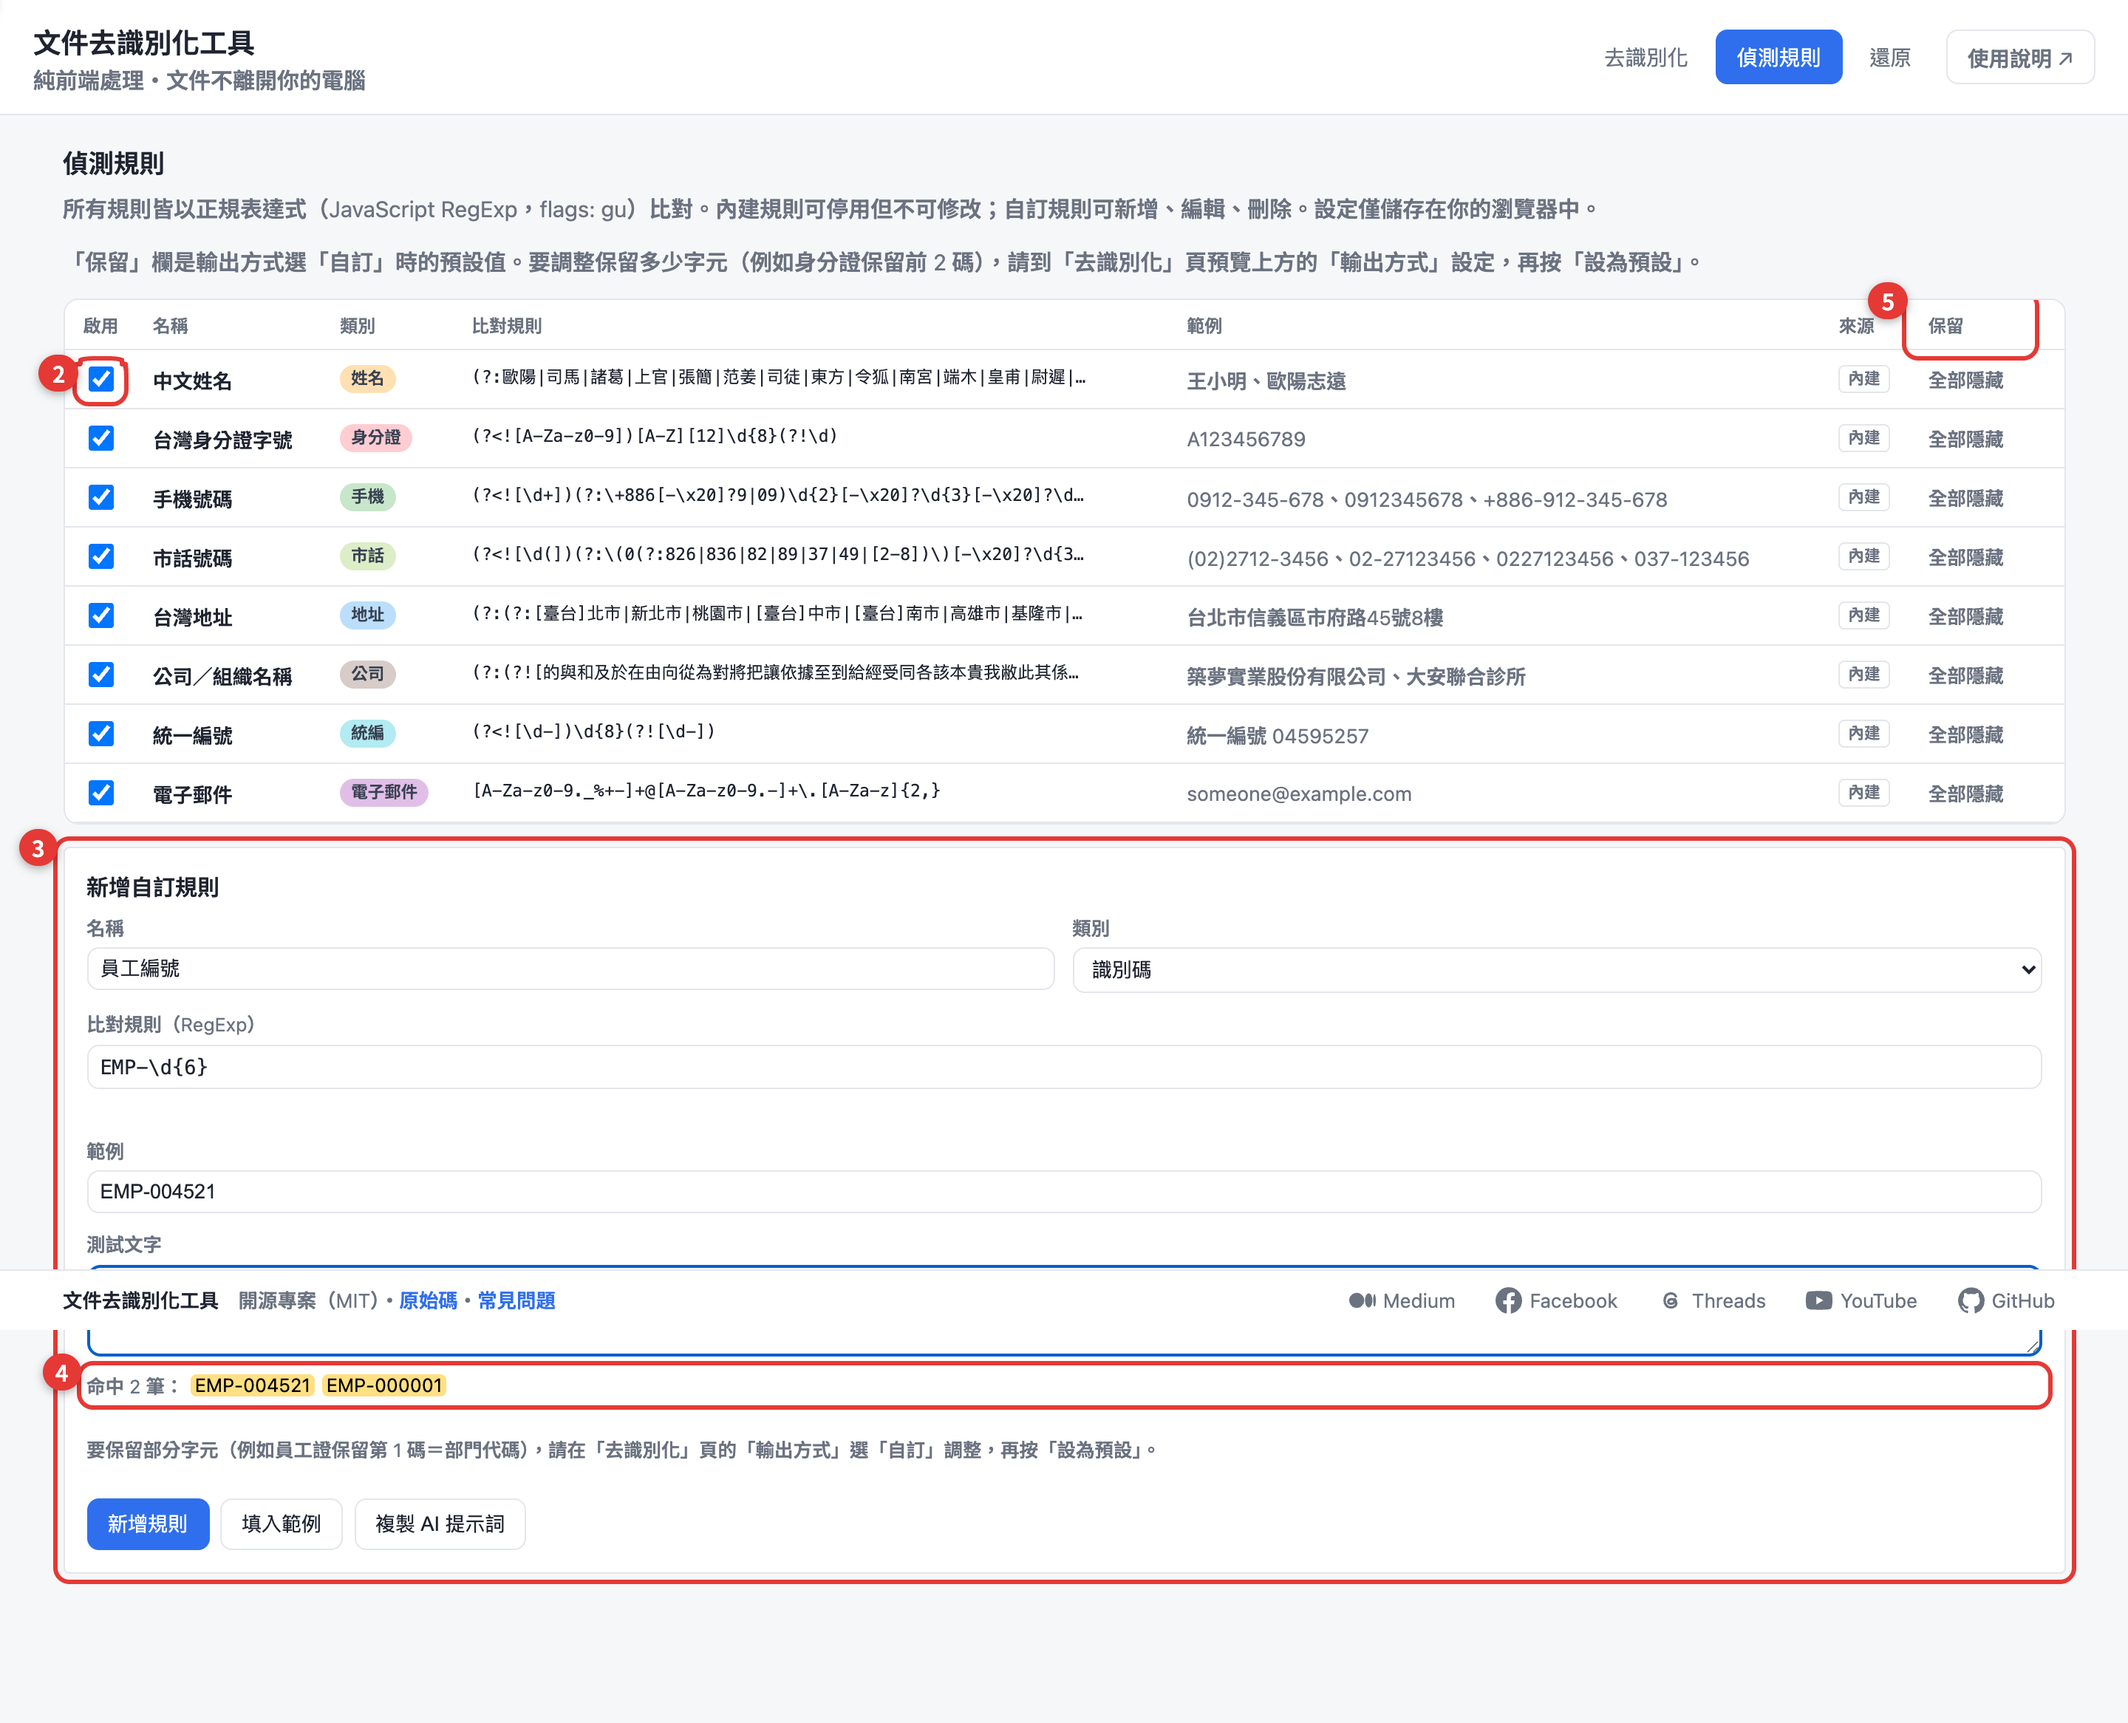
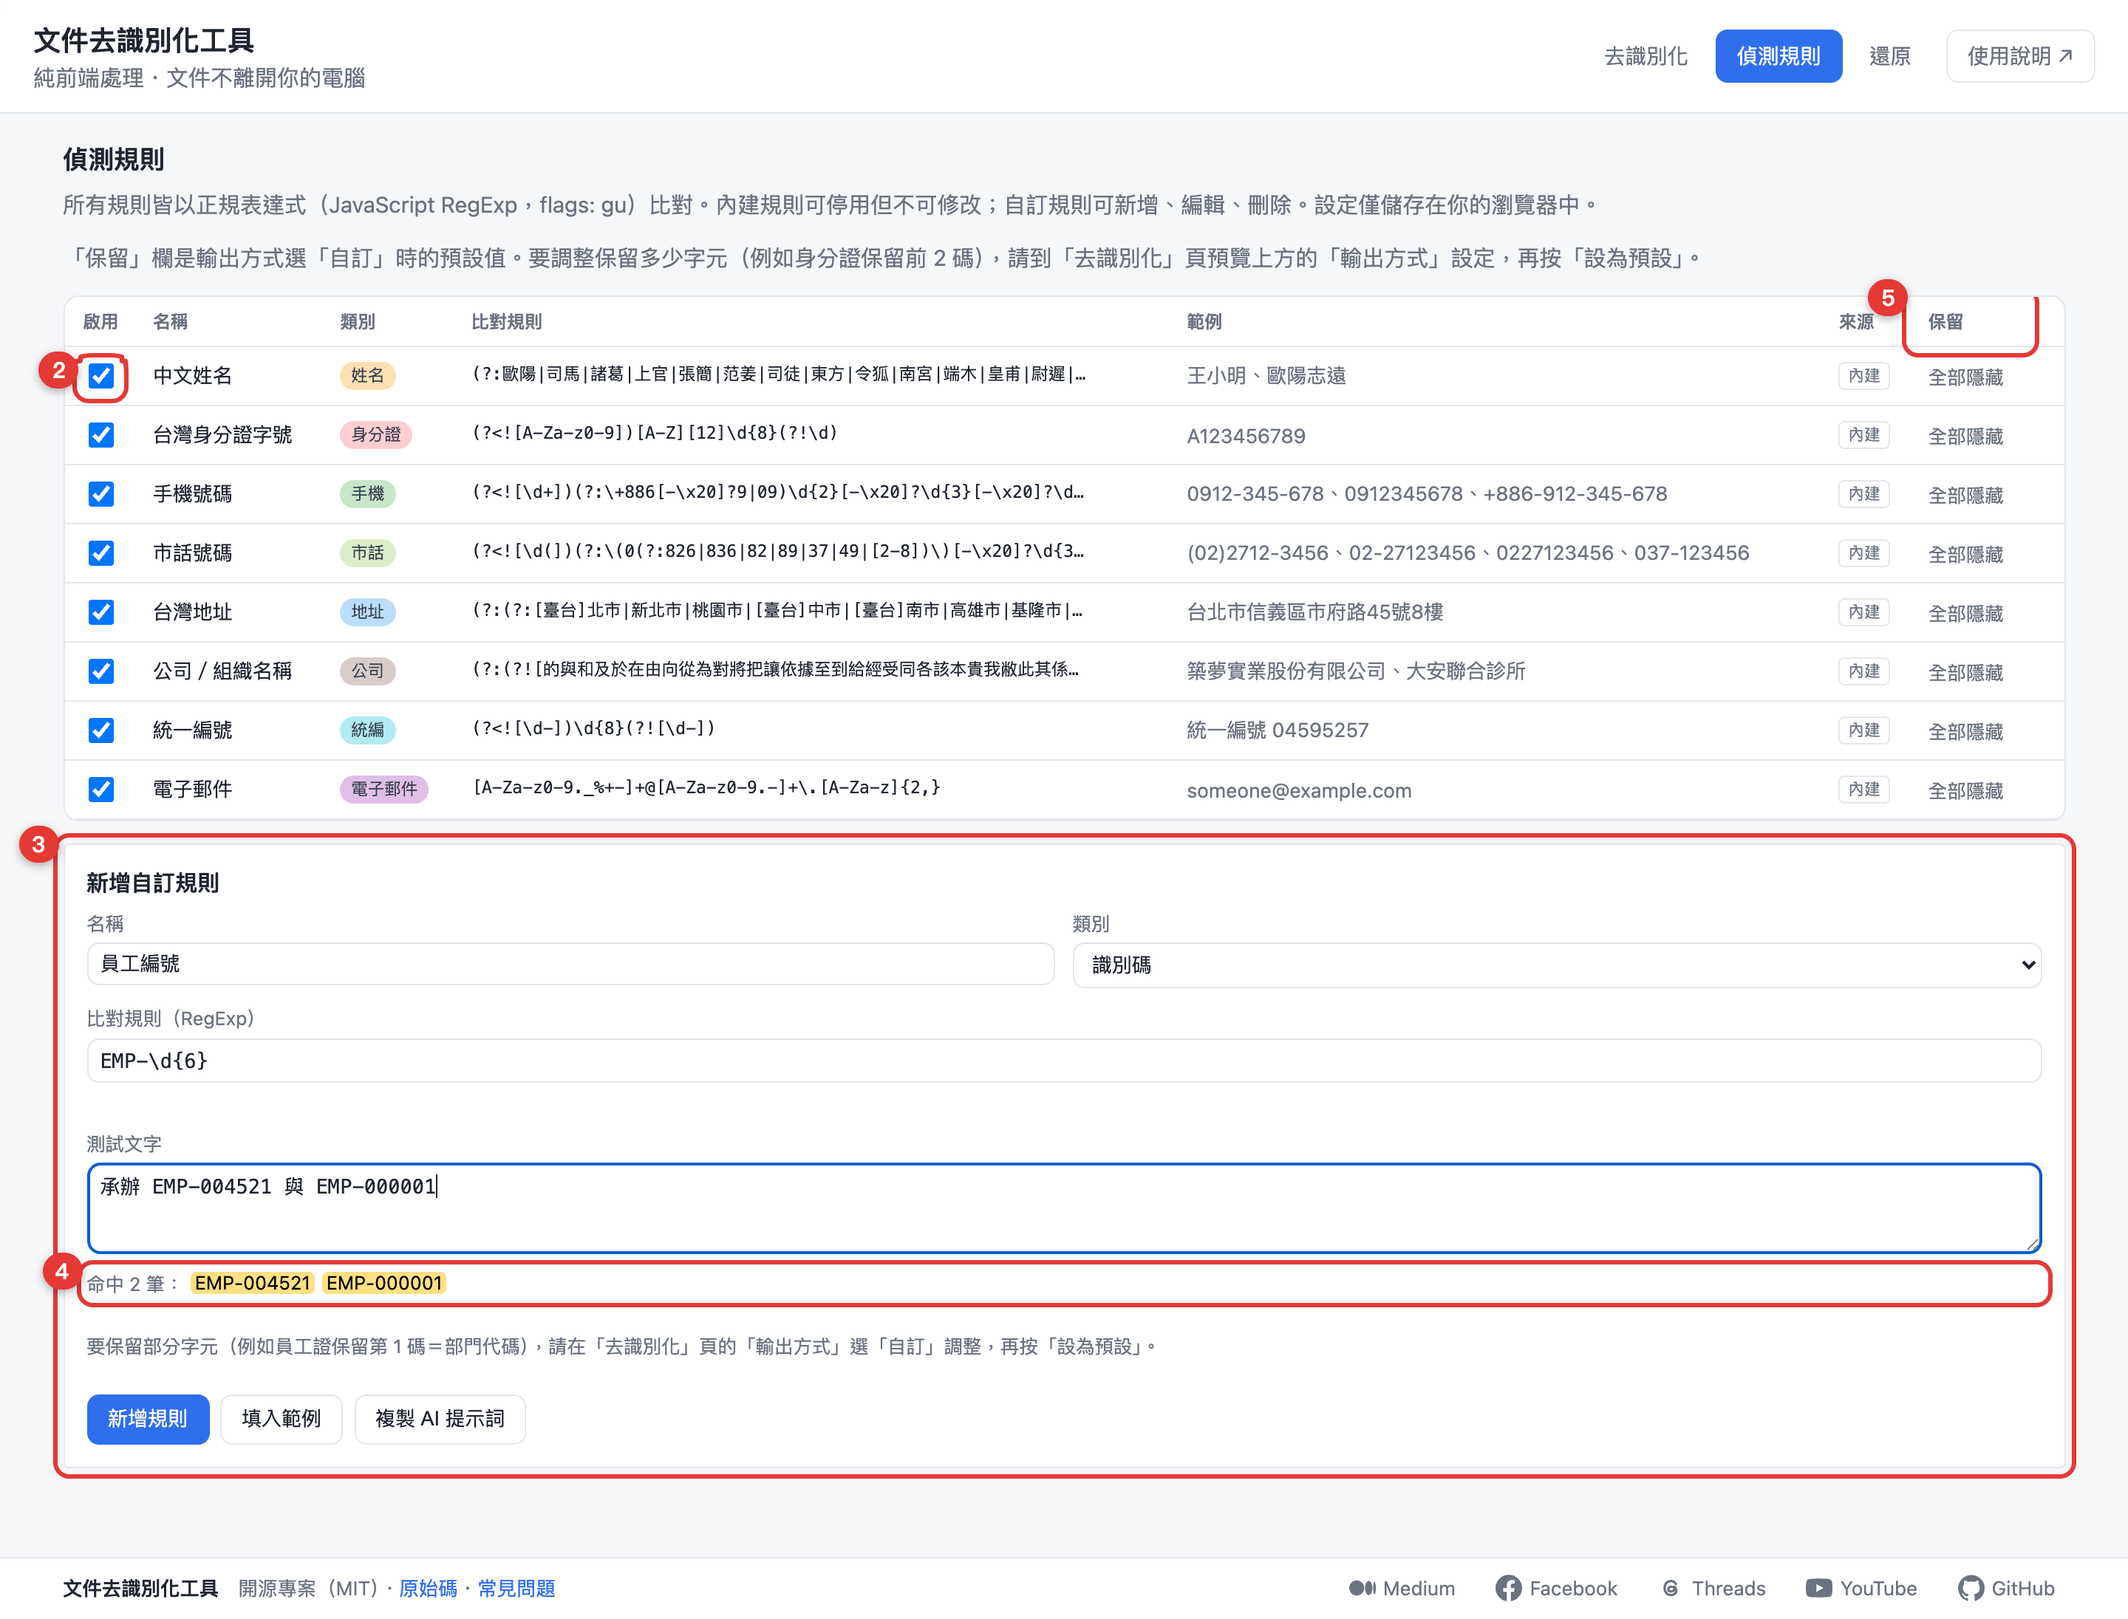
feat(patterns): 移除自訂規則的「範例」欄位並精簡 AI 提示詞
- 範例改由測試文字的第一筆命中自動帶入，規則列表仍會顯示範例
- 編輯規則時以既有範例預填測試文字
- AI 提示詞縮短為一行描述＋限制，回覆項目改為名稱、類別、規則、測試文字，可直接貼入驗證
- 截圖腳本：整頁截圖時一併解除常駐頁尾，避免遮住內容；更新 06-patterns 截圖

diff --git a/src/ui/patterns-view.ts b/src/ui/patterns-view.ts
@@ -10,22 +10,20 @@ const SAMPLE_RULE = {
   name: '員工編號',
   category: '識別碼' as Category,
   regex: 'EMP-\\d{6}',
-  example: 'EMP-004521',
   sample: '承辦人員工編號 EMP-004521，協辦 EMP-000317；舊制編號 EMP-12345 位數不足，不會命中。',
 };
 
 /** Prompt users can paste into an AI assistant to get a rule that fits this tool's RegExp constraints. */
 const AI_PROMPT = [
-  '我在使用「文件去識別化工具」，需要新增一條自訂偵測規則，請幫我寫一個 JavaScript 正規表達式（RegExp）。限制如下：',
-  '1. 工具會以 new RegExp(規則, \'gu\') 在整份文件中搜尋，請只回覆規則本身，不要加前後斜線、flags，也不要加 ^ 或 $。',
-  '2. 規則不可比對到空字串，且只能使用 JavaScript 支援的語法。',
-  '3. 請避免過度寬鬆而誤抓一般文字。',
+  '請幫我寫一個 JavaScript 正規表達式，偵測文件中的：（例如：員工編號，EMP- 開頭接 6 位數字）',
   '',
-  '我要偵測的內容：（描述格式，例如：員工編號，EMP- 開頭接 6 位數字）',
-  '應該命中的例子：（例如：EMP-004521、EMP-000317）',
-  '不應該命中的例子與原因：（例如：EMP-12345 只有 5 位數字、emp-004521 是小寫開頭）',
+  "限制：以 new RegExp(規則, 'gu') 搜尋整份文件；不要加斜線、flags、^ 或 $；不可比對空字串；避免誤抓一般文字。",
   '',
-  `請依序回覆：規則名稱、建議類別（${CATEGORIES.join('／')} 擇一）、規則、一個範例值，並簡短說明規則各部分的意思。`,
+  '請只回覆以下四項：',
+  '1. 名稱',
+  `2. 類別（${CATEGORIES.join('／')} 擇一）`,
+  '3. 規則',
+  '4. 測試文字：一段 2～3 句的文字，同時包含應命中與不應命中的例子',
 ].join('\n');
 
 async function copyToClipboard(text: string): Promise<void> {
@@ -112,19 +110,24 @@ function renderForm(root: HTMLElement, config: PatternConfig, editing: CustomPat
   const category = el('select', { class: 'select' }, ...CATEGORIES.map((c) => el('option', { value: c }, c))) as HTMLSelectElement;
   category.value = editing?.category ?? '識別碼';
   const regex = el('input', { class: 'input mono', placeholder: '例如：EMP-\\d{6}', value: editing?.regex ?? '' }) as HTMLInputElement;
-  const example = el('input', { class: 'input', placeholder: '例如：EMP-004521', value: editing?.example ?? '' }) as HTMLInputElement;
-  const sample = el('textarea', { class: 'input', rows: '3', placeholder: '貼上測試文字，即時檢視命中結果' }) as HTMLTextAreaElement;
+  const sample = el('textarea', { class: 'input', rows: '3', placeholder: '貼上測試文字，即時檢視命中結果；第一筆命中會作為規則列表的範例' }) as HTMLTextAreaElement;
+  sample.value = editing?.example ?? '';
   const regexError = el('div', { class: 'field-error' });
   const hits = el('div', { class: 'hits' });
+
+  /** Matches of the current rule in the test text (empty when the rule is invalid). */
+  const matches = (): string[] => {
+    if (validateRegex(regex.value) || !sample.value) return [];
+    const re = compilePattern({ regex: regex.value } as Pattern);
+    return re ? [...sample.value.matchAll(re)].map((m) => m[0]) : [];
+  };
 
   const preview = () => {
     const err = validateRegex(regex.value);
     regexError.textContent = err ?? '';
     clear(hits);
     if (err || !sample.value) return;
-    const re = compilePattern({ regex: regex.value } as Pattern);
-    if (!re) return;
-    const found = [...sample.value.matchAll(re)].map((m) => m[0]);
+    const found = matches();
     hits.append(found.length === 0 ? el('span', { class: 'muted' }, '無命中') : el('span', {}, `命中 ${found.length} 筆：`), ...found.map((f) => el('mark', { class: 'mark mark-識別碼' }, f)));
   };
   regex.addEventListener('input', preview);
@@ -147,7 +150,7 @@ function renderForm(root: HTMLElement, config: PatternConfig, editing: CustomPat
         name: name.value.trim(),
         category: category.value as Category,
         regex: regex.value,
-        example: example.value.trim(),
+        example: matches()[0] ?? editing?.example ?? '',
         enabled: editing?.enabled ?? true,
       });
       saveConfig(next);
@@ -162,7 +165,6 @@ function renderForm(root: HTMLElement, config: PatternConfig, editing: CustomPat
     name.value = SAMPLE_RULE.name;
     category.value = SAMPLE_RULE.category;
     regex.value = SAMPLE_RULE.regex;
-    example.value = SAMPLE_RULE.example;
     sample.value = SAMPLE_RULE.sample;
     preview();
     toast('已填入範例規則，可直接修改，再按「新增規則」儲存', 'info', 3000);
@@ -170,7 +172,7 @@ function renderForm(root: HTMLElement, config: PatternConfig, editing: CustomPat
   const copyPrompt = async () => {
     try {
       await copyToClipboard(AI_PROMPT);
-      toast('已複製提示詞，貼給 ChatGPT、Claude 或 Gemini，並補上你要偵測的格式與例子', 'success', 5000);
+      toast('已複製提示詞，貼給 ChatGPT、Claude 或 Gemini 並改寫第一行要偵測的內容；回覆的測試文字可貼到「測試文字」驗證', 'success', 6000);
     } catch {
       toast('無法存取剪貼簿，請改用支援的瀏覽器', 'error');
     }
@@ -184,7 +186,6 @@ function renderForm(root: HTMLElement, config: PatternConfig, editing: CustomPat
       el('label', {}, '名稱', name),
       el('label', {}, '類別', category),
       el('label', { class: 'span-2' }, '比對規則（RegExp）', regex, regexError),
-      el('label', { class: 'span-2' }, '範例', example),
       el('label', { class: 'span-2' }, '測試文字', sample, hits),
       el('p', { class: 'muted small span-2' }, '要保留部分字元（例如員工證保留第 1 碼＝部門代碼），請在「去識別化」頁的「輸出方式」選「自訂」調整，再按「設為預設」。'),
     ),

diff --git a/tests/unit/patterns-view.test.ts b/tests/unit/patterns-view.test.ts
@@ -20,7 +20,7 @@ describe('patterns view helpers', () => {
     expect(view.querySelector<HTMLInputElement>('input[placeholder="例如：員工編號"]')!.value).toBe('員工編號');
     expect(view.querySelector<HTMLSelectElement>('select')!.value).toBe('識別碼');
     expect(view.querySelector<HTMLInputElement>('input.mono')!.value).toBe('EMP-\\d{6}');
-    expect(view.querySelector<HTMLInputElement>('input[placeholder="例如：EMP-004521"]')!.value).toBe('EMP-004521');
+    expect(view.querySelector('input[placeholder="例如：EMP-004521"]')).toBeNull();
     expect(view.querySelector<HTMLTextAreaElement>('textarea')!.value).toContain('EMP-004521');
 
     const marks = [...view.querySelectorAll('.hits mark')].map((m) => m.textContent);
@@ -41,6 +41,7 @@ describe('patterns view helpers', () => {
     expect(tip).toContain('JavaScript 正規表達式');
     expect(tip).toContain("'gu'");
     expect(tip).toContain('識別碼');
+    expect(tip).toContain('測試文字');
 
     btn.click();
     await vi.waitFor(() => expect(writeText).toHaveBeenCalledWith(tip));
@@ -59,5 +60,14 @@ describe('patterns view helpers', () => {
     [...view.querySelectorAll<HTMLButtonElement>('.col-actions button')].find((b) => b.textContent === '編輯')!.click();
     expect(byLabel(view, '填入範例')).toBeUndefined();
     expect(byLabel(view, '複製 AI 提示詞')).toBeDefined();
+  });
+
+  it('saves the first hit in the test text as the rule\'s example', () => {
+    const view = createPatternsView();
+    document.body.append(view);
+    byLabel(view, '填入範例').click();
+    byLabel(view, '新增規則').click();
+    const saved = JSON.parse(localStorage.getItem(STORAGE_KEY)!);
+    expect(saved.customPatterns[0].example).toBe('EMP-004521');
   });
 });

diff --git a/scripts/make-screenshots.ts b/scripts/make-screenshots.ts
@@ -42,11 +42,12 @@ async function annotate(page: Page, targets: [string, number][]): Promise<void> 
 
 async function shot(page: Page, name: string, fullPage = false): Promise<void> {
   await page.evaluate(() => document.querySelectorAll('.toast').forEach((t) => t.remove()));
-  // A sticky header would be painted over the page top in full-page captures.
-  if (fullPage) await page.evaluate(() => ((document.querySelector('.header') as HTMLElement).style.position = 'static'));
+  // The sticky header and footer would be painted over the page content in full-page captures.
+  const pinned = (position: string) => page.evaluate((p) => document.querySelectorAll<HTMLElement>('.header, .footer').forEach((e) => (e.style.position = p)), position);
+  if (fullPage) await pinned('static');
   await new Promise((r) => setTimeout(r, 250));
   await page.screenshot({ path: `${OUT}/${name}.png`, fullPage });
-  if (fullPage) await page.evaluate(() => ((document.querySelector('.header') as HTMLElement).style.position = ''));
+  if (fullPage) await pinned('');
   console.log('saved', `${OUT}/${name}.png`);
 }
 
@@ -208,7 +209,6 @@ await page.click('[data-tab="patterns"]');
 await new Promise((r) => setTimeout(r, 300));
 await page.type('.form-card input[placeholder="例如：員工編號"]', '員工編號');
 await page.type('.form-card input.mono', 'EMP-\\d{6}');
-await page.type('.form-card input[placeholder="例如：EMP-004521"]', 'EMP-004521');
 await page.type('.form-card textarea', '承辦 EMP-004521 與 EMP-000001');
 await annotate(page, [['.table-wrap', 1], ['.switch', 2], ['.form-card', 3], ['.hits', 4], ['.patterns-view thead th:nth-child(7)', 5]]);
 await shot(page, '06-patterns', true);
